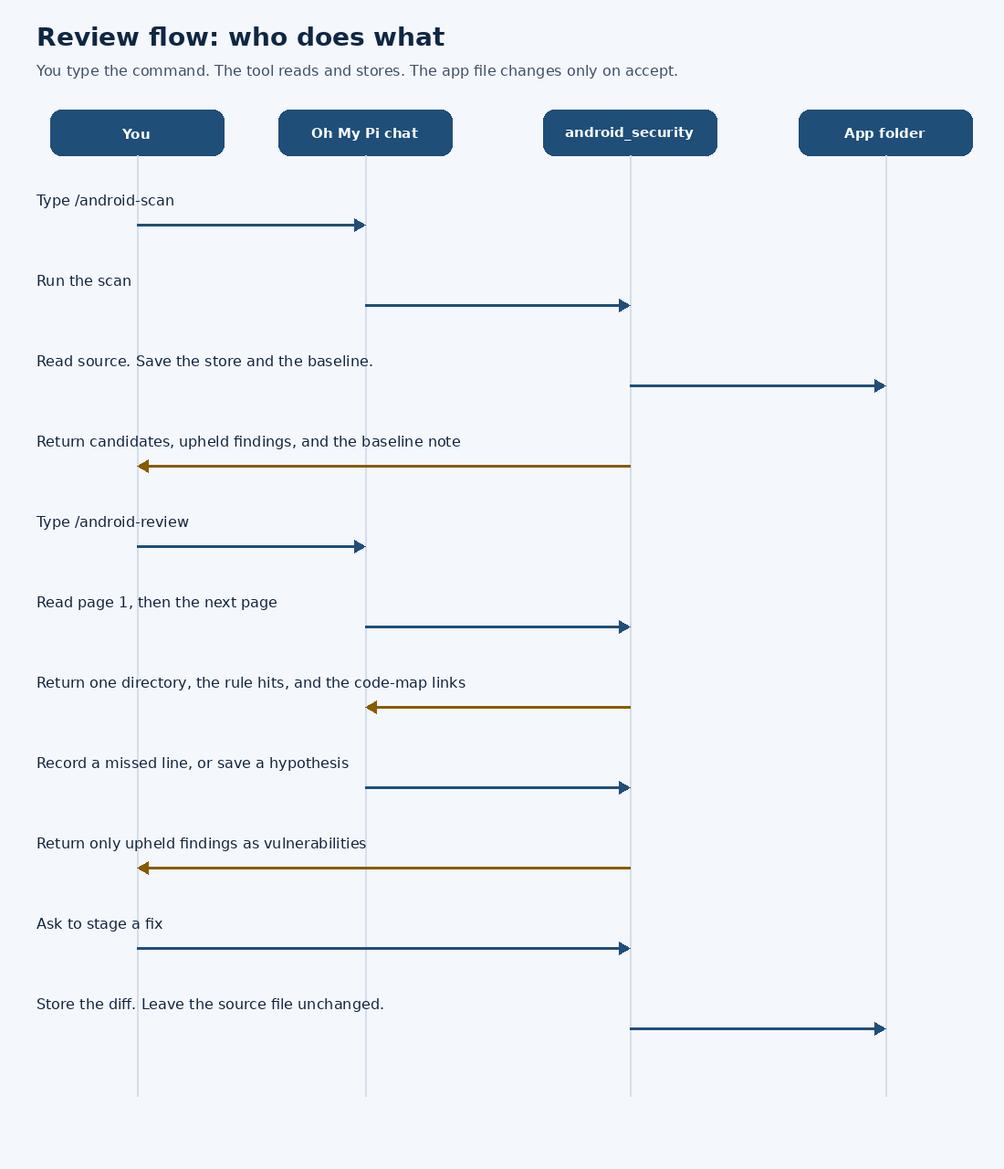
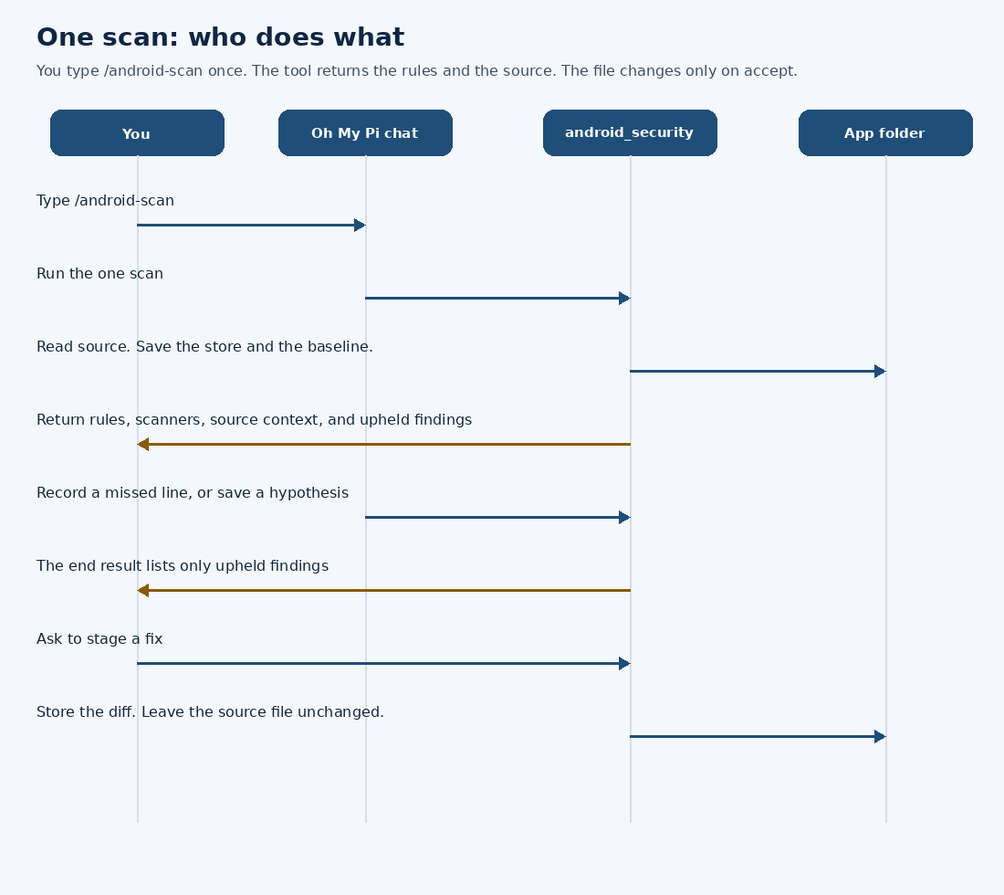
Make /android-scan the only pass and document that in the README.
The rules, scanners, and source context come back together, and the model gives the end result from that one command.

diff --git a/src/index.ts b/src/index.ts
@@ -45,7 +45,7 @@ interface HostApi {
   sendUserMessage(content: string): void;
 }
 
-const TOOL_ACTIONS = ["detect", "map", "scan", "review", "read", "triage", "investigate", "explain", "recommend", "fix", "remediate", "verify", "judge", "status", "record", "hypothesize", "threads", "thread", "activity", "baseline"] as const;
+const TOOL_ACTIONS = ["detect", "map", "scan", "read", "triage", "investigate", "explain", "recommend", "fix", "remediate", "verify", "judge", "status", "record", "hypothesize", "threads", "thread", "activity", "baseline"] as const;
 
 const detectedProjects = new Map<string, boolean>();
 
@@ -92,7 +92,7 @@ export default function secureDroid(pi: HostApi): void {
     name: "android_security",
     label: "Android security",
     description:
-      "Android security harness for Kotlin, Java, Compose, Flutter, React Native, manifests, and Gradle. detect, map, scan, then read every source page before judging. triage, investigate, explain, record a line-pinned finding, judge a finding, and stage fixes with fix or remediate. Only upheld findings are vulnerabilities. This tool does not apply patches; the developer accepts them.",
+      "Android security harness for Kotlin, Java, Compose, Flutter, React Native, manifests, and Gradle. scan is the one pass: deterministic rules, Semgrep, Sigma, YARA, and the source context. Then give the end result. triage, investigate, explain, record a line-pinned finding, judge a finding, and stage fixes with fix or remediate. Only upheld findings are vulnerabilities. This tool does not apply patches; the developer accepts them.",
     loadMode: "essential",
     approval: "write",
     parameters: z.object({
@@ -140,21 +140,20 @@ export default function secureDroid(pi: HostApi): void {
   const commands: Array<{ name: string; description: string; run: (args: string, cwd: string) => { text: string; user?: string } }> = [
     { name: "android-detect", description: "Identify Android frameworks, languages, and available tools", run: (_args, cwd) => ({ text: runSecureDroid({ action: "detect", root: cwd }).text }) },
     { name: "android-map", description: "Map Android entry points and modules", run: (_args, cwd) => ({ text: runSecureDroid({ action: "map", root: cwd }).text }) },
-    { name: "android-scan", description: "Run deterministic Android security checks", run: (_args, cwd) => ({ text: runSecureDroid({ action: "scan", root: cwd }).text }) },
+    {
+      name: "android-scan",
+      description: "Run the full scan: rules, scanners, source context, then the model gives the end result",
+      run: (_args, cwd) => ({
+        text: runSecureDroid({ action: "scan", root: cwd }).text,
+        user: "One scan. The tool result already contains the deterministic rules, Semgrep, Sigma, YARA, and the source context. You are Grok 4.7. Judge the included source with the rules and your own Android insecure-coding knowledge. Leave lines the rules already recorded. If a line is insecure and the rules missed it, record that file and line. If a claim is not pinned to a line, hypothesize. Then give the end result: only upheld findings are vulnerabilities. Do not edit source and do not start another scan.",
+      }),
+    },
     { name: "android-triage", description: "Keep only verifier-upheld vulnerabilities", run: (_args, cwd) => ({ text: runSecureDroid({ action: "triage", root: cwd }).text }) },
     { name: "android-findings", description: "Show stored SecureDroid findings", run: (_args, cwd) => ({ text: runSecureDroid({ action: "status", root: cwd }).text }) },
     { name: "android-threads", description: "List saved research threads without their evidence", run: (_args, cwd) => ({ text: runSecureDroid({ action: "threads", root: cwd }).text }) },
     { name: "android-thread", description: "Read one research thread", run: (args, cwd) => ({ text: runSecureDroid({ action: "thread", root: cwd, findingId: args.trim() }).text }) },
     { name: "android-activity", description: "Summarize harness actions without treating them as findings", run: (_args, cwd) => ({ text: runSecureDroid({ action: "activity", root: cwd }).text }) },
     { name: "android-baseline", description: "Replace the scan comparison point with the current findings", run: (_args, cwd) => ({ text: runSecureDroid({ action: "baseline", root: cwd }).text }) },
-    {
-      name: "android-review",
-      description: "Scan and ask the model to investigate the Android project",
-      run: (_args, cwd) => ({
-        text: runSecureDroid({ action: "review", root: cwd }).text,
-        user: "Review this Android project before production. You are Grok 4.7, the review brain. Call android_security action read from page 1 until the last page. Each page is one directory of Kotlin, Java, C, C++, C#, Dart, JavaScript, TypeScript, Python, Rust, Ruby, Lua, HTML, CSS, Groovy, Gradle, or XML. While you read it, learn what that code does, then review every line with the rules and your own Android insecure-coding knowledge before you request the next page. Leave lines the rules already recorded and continue to the next line. If your knowledge says a line is insecure and the rules missed it, record that file and line, then continue. Spawn android-verifier. Report only upheld findings. Stage a fix only when the same screen, data, and user step still work. Do not change a feature, and do not modify source files yourself.",
-      }),
-    },
     { name: "android-investigate", description: "Show evidence for one finding", run: (args, cwd) => ({ text: runSecureDroid({ action: "investigate", root: cwd, findingId: args.trim() }).text }) },
     { name: "android-fix", description: "Stage a remediation without modifying source", run: (args, cwd) => ({ text: runSecureDroid({ action: "fix", root: cwd, findingId: args.trim() }).text }) },
     { name: "android-remediate", description: "Stage every automatic fix and leave source unchanged", run: (_args, cwd) => ({ text: runSecureDroid({ action: "remediate", root: cwd }).text }) },

diff --git a/src/engine.ts b/src/engine.ts
@@ -2,7 +2,7 @@ import { evaluateRepository } from "./analysis.ts";
 import { brainStatus } from "./brain.ts";
 import { graphContext } from "./graphify.ts";
 import { formatActivity, formatThread, formatThreadIndex, noteBaseline, readThread, recordActivity, refreshBaseline, saveHypothesis } from "./harness.ts";
-import { readSourcePage } from "./source.ts";
+import { readSourceBundle, readSourcePage } from "./source.ts";
 import { collectExternalFindings, mergeExternal } from "./engines.ts";
 import { saveScan, acceptException, acceptStaged, loadStore, recordInvestigation, rejectStaged, stageFix, verifyStaged } from "./store.ts";
 import { judgeFinding, triageRepository } from "./triage.ts";
@@ -45,7 +45,7 @@ const PROCEDURE = [
   "8. partial verification means the static check cleared and the build was not run. Do not call that a pass.",
   "9. Record an extra finding with the record action only when you can name a real file and line. It stays medium confidence and cannot be P0.",
   "10. Report only findings the verifier upheld. Withheld findings are candidates, not vulnerabilities. Spawn android-verifier before telling the developer something is vulnerable.",
-  "11. Before that report, call action read from page 1 until the last source page. On each page, review every line with the rules and your own Android insecure-coding knowledge. Leave lines the rules already recorded. If you judge a missed line insecure, record it, then continue to the next line.",
+  "11. This scan is the whole pass. The source context is already included. Judge every included directory with the rules and your own Android insecure-coding knowledge. Leave lines the rules already recorded. If a missed line is insecure, record it. If the scan says pages were left out, call action read for those pages before the end result.",
   "12. A model answer is a lead. Keep an observation, an inference, and an untested hypothesis separate. Save the hypothesis with action hypothesize. Read the index with action threads, then one thread with action thread.",
   "13. The activity log records which harness actions ran. It is not evidence. The baseline comparison is a change in the finding set, not a claim that the app is secure.",
   "14. The developer accepts a fix and is the only person who reports outside this project. A draft is not a submission.",
@@ -123,9 +123,9 @@ export function runSecureDroid(request: ActionRequest): ActionResult {
 function executeSecureDroid(request: ActionRequest): ActionResult {
   try {
     const root = request.root;
-    if (request.action === "detect" || request.action === "map" || request.action === "scan" || request.action === "review") {
+    if (request.action === "detect" || request.action === "map" || request.action === "scan" || request.action === "review" || request.action === "audit") {
       const evaluated = evaluateRepository(root);
-      const notes = request.action === "scan" || request.action === "review" ? persistScan(root, evaluated.findings) : [];
+      const notes = request.action === "scan" || request.action === "review" || request.action === "audit" ? persistScan(root, evaluated.findings) : [];
       const header = [
         brainStatus(),
         `Android project: ${evaluated.detection.isAndroid ? "yes" : "no"}`,
@@ -150,13 +150,18 @@ function executeSecureDroid(request: ActionRequest): ActionResult {
           data: evaluated.map,
         };
       }
-      const stored = request.action === "scan" || request.action === "review" ? triageRepository(root) : loadStore(root).findings;
+      const stored = request.action === "scan" || request.action === "review" || request.action === "audit" ? triageRepository(root) : loadStore(root).findings;
       const body = `${header.join("\n")}\n${noteBaseline(root, stored)}\n${reportFindings(stored)}`;
-      if (request.action === "review") {
-        const graph = graphContext(root, stored, evaluated.map.entryPoints);
-        return { ok: true, text: `${PROCEDURE}\n\n${body}\n\n${graph}`, data: { findings: stored, procedure: PROCEDURE } };
-      }
-      return { ok: true, text: body, data: stored };
+      const graph = graphContext(root, stored, evaluated.map.entryPoints);
+      const bundle = readSourceBundle(root);
+      const close = [
+        "End of one-pass context.",
+        "The deterministic rules, Semgrep, Sigma, YARA, and the source above are the context for this scan.",
+        "Judge the included source. Leave lines the rules already recorded. If a line is insecure and the rules missed it, call action record for that file and line. If the claim is not pinned to a line, call action hypothesize.",
+        "Then give the end result. Report only upheld findings as vulnerabilities. Withheld lines stay candidates.",
+        "Do not edit source. Do not start another scan.",
+      ].join("\n");
+      return { ok: true, text: `${PROCEDURE}\n\n${body}\n\n${graph}\n\n${bundle.text}\n\n${close}`, data: stored };
     }
 
     if (request.action === "status" || request.action === "findings" || request.action === "triage") {

diff --git a/src/source.ts b/src/source.ts
@@ -15,6 +15,8 @@ interface Piece {
   parts: number;
 }
 
+const AUDIT_CHARS = 160_000;
+
 export function readSourcePage(root: string, pageNumber: number): string {
   const collected = collectFiles(root);
   const pages = pack(splitFiles(collected.files));
@@ -23,19 +25,54 @@ export function readSourcePage(root: string, pageNumber: number): string {
   if (page > pages.length) {
     return `Page ${page} is past the end. There are ${pages.length} source pages. Every collected directory has been shown.`;
   }
+  return renderPage(root, collected.files, collected.truncated, pages, page, "page");
+}
+
+export function readSourceBundle(root: string): { text: string; pages: number; included: number } {
+  const collected = collectFiles(root);
+  const pages = pack(splitFiles(collected.files));
+  if (pages.length === 0) {
+    return {
+      text: "No source files were collected. SecureDroid reads Kotlin, Java, C, C++, C#, Dart, JavaScript, TypeScript, Python, Rust, Ruby, Lua, HTML, CSS, Groovy, Gradle, and XML.",
+      pages: 0,
+      included: 0,
+    };
+  }
+  const chunks: string[] = [];
+  let used = 0;
+  let included = 0;
+  for (let index = 0; index < pages.length; index += 1) {
+    const pageText = renderPage(root, collected.files, collected.truncated, pages, index + 1, "bundle");
+    if (included > 0 && used + pageText.length > AUDIT_CHARS) break;
+    chunks.push(pageText);
+    used += pageText.length;
+    included += 1;
+  }
+  const left = pages.length - included;
+  const cover =
+    left === 0
+      ? `Source context: all ${pages.length} directories are below. Judge this source, then give the end result.`
+      : `Source context: directories 1-${included} of ${pages.length} are below. Call action read for page ${included + 1} through ${pages.length} before the end result.`;
+  return { text: [cover, ...chunks].join("\n\n"), pages: pages.length, included };
+}
+
+function renderPage(root: string, files: SourceFile[], truncated: boolean, pages: Piece[][], page: number, mode: "page" | "bundle"): string {
   const current = pages[page - 1] ?? [];
   const directory = directoryOf(current[0]?.path ?? "");
   const languages = [...new Set(current.map((piece) => piece.language))].join(", ");
   const last = page === pages.length;
-  const nextStep = last
-    ? "This is the last page. Review this directory for insecure Android code before you finish. Every collected directory has been shown."
-    : `Review this directory for insecure Android code before the next page. Then call android_security action read with page "${page + 1}".`;
+  const nextStep =
+    mode === "bundle"
+      ? "This directory is part of the one-pass context. Judge every line here before the end result."
+      : last
+        ? "This is the last page. Review this directory for insecure Android code before you finish. Every collected directory has been shown."
+        : `Review this directory for insecure Android code before the next page. Then call android_security action read with page "${page + 1}".`;
   return [
     `Source page ${page} of ${pages.length}. Directory: ${directory}. Languages: ${languages}.`,
     nextStep,
-    collected.truncated ? "Some files were skipped because the project exceeded the file count or the per-file size limit." : "",
+    truncated ? "Some files were skipped because the project exceeded the file count or the per-file size limit." : "",
     "While you read the lines below, first understand what this directory does in the app. Then review them for insecure Android coding in Kotlin, Java, C, C++, C#, Dart, JavaScript, TypeScript, Python, Rust, Ruby, Lua, HTML, CSS, Groovy, and XML. Use the rules and your own insecure-coding knowledge on every line. The code map is only the wiring.",
-    rulesOnPage(collected.files, current.map((piece) => piece.path)),
+    rulesOnPage(files, current.map((piece) => piece.path)),
     directoryLinks(root, directory),
     "Go line by line. If the rules already recorded a line, leave it and continue to the next line. If your Android knowledge says a line is insecure and the rules missed it, call action record for that file and line, then continue to the next line. Do not stop the directory. Do not invent a line, and do not write an exploit.",
     "A fix is staged for the developer to accept. Do not edit the file. Keep the same screen, data, and user step. If the safe fix would change how the app behaves, leave a recommendation.",

diff --git a/test/secure-droid.test.ts b/test/secure-droid.test.ts
@@ -477,6 +477,9 @@ test("the model tool cannot accept patches, and unsafe writes are blocked", asyn
   assert.equal(actions.includes("judge"), true);
   assert.equal(actions.includes("remediate"), true);
   assert.equal(actions.includes("read"), true);
+  assert.equal(actions.includes("scan"), true);
+  assert.equal(actions.includes("review"), false);
+  assert.equal(actions.includes("audit"), false);
   assert.ok(commands.includes("android-triage"));
   assert.ok(commands.includes("android-accept"));
   assert.ok(commands.includes("android-remediate"));
@@ -1010,6 +1013,10 @@ test("a scan runs the required semgrep, sigma, and yara packs", () => {
   assert.match(scan.text, /External: semgrep: \d+ confirmed/);
   assert.match(scan.text, /External: sigma: \d+ confirmed/);
   assert.match(scan.text, /External: yara: \d+ confirmed/);
+  assert.match(scan.text, /Source context: all \d+ directories are below/);
+  assert.match(scan.text, /MODE_WORLD_READABLE/);
+  assert.match(scan.text, /End of one-pass context/);
+  assert.ok((scan.data as Finding[]).some((item) => item.ruleId === "STORAGE-WORLD-ACCESSIBLE"));
   assert.doesNotMatch(scan.text, /Required scanner semgrep failed|Required scanner semgrep is not installed|Required sigma pack failed|Required yara pack failed/);
   const world = (scan.data as Finding[]).find((item) => item.ruleId === "STORAGE-WORLD-ACCESSIBLE");
   assert.ok(world);

diff --git a/src/cli.ts b/src/cli.ts
@@ -13,7 +13,6 @@ function help(): string {
     "  securedroid detect [root]",
     "  securedroid map [root]",
     "  securedroid scan [root]",
-    "  securedroid review [root]",
     "  securedroid read [page] [root]",
     "  securedroid findings [root]",
     "  securedroid threads [root]",
@@ -60,7 +59,7 @@ if (command === "help" || command === "--help" || command === "-h") {
 } else {
   const parsed = split(rest);
   const result = runSecureDroid({
-    action: command === "findings" ? "status" : command,
+    action: command === "findings" ? "status" : command === "review" || command === "audit" ? "scan" : command,
     root: parsed.root,
     findingId: parsed.findingId,
     reason: parsed.reason,

diff --git a/README.md b/README.md
@@ -10,9 +10,19 @@ A model answer is a lead. A rule match is a candidate. A finding is called a vul
 
 ## How a session works
 
-![How a SecureDroid session works, from opening the chat through scan, review, a staged fix, and accept or reject](docs/diagrams/session-flow.png)
+![How one SecureDroid scan works, from opening the chat through /android-scan, the end result, and accept or reject](docs/diagrams/session-flow.png)
 
-The chat does not print findings by itself. `/android-scan` prints them. `/android-review` is when the model reads the source.
+There is one scan command. The chat does not print findings by itself.
+
+1. `npm run omp -- /path/to/the/app` opens the Oh My Pi chat in that folder.
+2. `/android-scan` runs the built-in rules, required Semgrep, and the Sigma and YARA packs.
+3. The verifier upholds or withholds each match. The first scan saves a baseline.
+4. The same result includes the source, one directory at a time, with the rule hits already listed.
+5. The model judges that context. A missed insecure line is recorded. An unproven claim is a research thread, not a finding.
+6. The end result names only upheld findings as vulnerabilities.
+7. `/android-fix` or `/android-remediate` stores a diff. The source file stays as it is until `/android-accept`. `/android-reject` drops the diff.
+
+If the app is too large for one bundle, the scan names the remaining pages. The model reads those with the `read` tool action before the end result. That action is not a second slash command.
 
 ## What you need
 
@@ -61,7 +71,6 @@ The first lines are the npm script. The terminal then becomes the Oh My Pi chat,
 
 ```text
 /android-scan
-/android-review
 ```
 
 The planted sample is:
@@ -78,11 +87,11 @@ node --experimental-strip-types src/cli.ts scan /path/to/android-app
 
 Findings live in `<app>/.secure-droid/store.json`. Research threads live in `<app>/.secure-droid/research.json`. The activity log is `<app>/.secure-droid/activity.jsonl`. The baseline is `<app>/.secure-droid/baseline.json`.
 
-## Review flow
+## Inside the one scan
 
-![Review flow between you, the Oh My Pi chat, the android_security tool, and the app folder](docs/diagrams/review-sequence.png)
+![One scan between you, the Oh My Pi chat, the android_security tool, and the app folder](docs/diagrams/review-sequence.png)
 
-On each source page the model is told to learn what that directory does, then judge every line. Lines the rules already recorded are left alone. A line the rules missed is recorded on that file and line, then the model continues. A fix is staged only when the same screen, data, and user step still work. If the safe change would remove a feature, it stays a recommendation.
+`/android-scan` is the only scan command. It returns the rules, the scanner notes, and the source context together. On each included directory the model learns what that code does, then judges every line. Lines the rules already recorded are left alone. A line the rules missed is recorded on that file and line. A fix is staged only when the same screen, data, and user step still work. If the safe change would remove a feature, it stays a recommendation.
 
 ## Commands
 
@@ -92,8 +101,7 @@ Inside the chat, type the slash command. The same action exists on the command l
 |---|---|---|
 | `/android-detect` | Name the frameworks, languages, and which scanners are installed. | No |
 | `/android-map` | List launcher and exported entry points. | No |
-| `/android-scan` | Run the rules and scanners, triage the matches, and save or compare the baseline. | Store only |
-| `/android-review` | Ask the model to read every directory and investigate. | Store only |
+| `/android-scan` | One command. Run the rules and scanners, attach the source context, and ask the model for the end result. | Store only |
 | `/android-triage` | Show which stored findings the verifier still upholds. | Store only |
 | `/android-findings` | Print the stored findings. | No |
 | `/android-investigate <id>` | Show the evidence, runtime label, and recommendation for one finding. | No |
@@ -130,14 +138,14 @@ node --experimental-strip-types src/cli.ts reject <finding-id> /path/to/android-
 
 | Piece | Role |
 |---|---|
-| `prompts/harness.md` | Standing rules for the model: read every directory, keep features, do not edit source. |
+| `prompts/harness.md` | Standing rules for the model: one scan, judge the included source, keep features, do not edit source. |
 | `agents/` | Specialist roles. None of them accept a patch. The fixer only stages. |
 | `skills/secure-droid/` | Repeatable procedure for Kotlin, Compose, Flutter, React Native, fixes, and review. |
 | `src/rules.ts` | Deterministic insecure-coding checks. |
 | `src/standards.ts` | Maps a rule to an OWASP MASVS v2 id, and lists requirements that are not default findings. |
 | `src/runtime.ts` | Labels a finding `runtime-reachable`, `runtime-conditional`, or `build-time` from a source call path. |
 | `src/engines.ts` | Runs Semgrep, Sigma, and YARA on every scan. Keeps a hit only when the line still shows the pattern. ast-grep is extra. |
-| `src/source.ts` | One directory per page, with the rule hits for that page and the code-map links. |
+| `src/source.ts` | Puts every collected directory into the scan result, with the rule hits and the code-map links. A directory that does not fit is named so it can be read next. |
 | `src/graphify.ts` | Local call and import map. Extracted means read those files. Inferred stays unconfirmed. |
 | `src/harness.ts` | Research threads, the activity log, and the scan baseline. |
 | `src/triage.ts` | Upholds, withholds, or rejects. The model cannot dismiss a live rule match. |
@@ -155,7 +163,7 @@ The session, the tool, the judgment, and the disk stay apart. The model produces
 
 ![Data flow from the app source through scan, triage, a directory page, a recorded line or a research thread, a staged diff, and accept or reject](docs/diagrams/data-flow.png)
 
-`store.json` holds findings and staged diffs. `research.json` holds unproven claims. `baseline.json` is the comparison set. `activity.jsonl` counts actions and is not proof of a vulnerability. `graph.json` shows how the code is wired and does not decide a finding. The app source is read on every scan and review. It is written only when you accept, and only if the file still matches the scanned bytes.
+`store.json` holds findings and staged diffs. `research.json` holds unproven claims. `baseline.json` is the comparison set. `activity.jsonl` counts actions and is not proof of a vulnerability. `graph.json` shows how the code is wired and does not decide a finding. `/android-scan` reads the app source and returns it with the findings. The source is written only when you accept, and only if the file still matches the scanned bytes.
 
 ## Required rule packs
 

diff --git a/prompts/harness.md b/prompts/harness.md
@@ -1,6 +1,6 @@
 You are the SecureDroid Android secure-coding harness inside Oh My Pi.
 
-Start every Android review with the android_security tool: detect, then map, then scan. Then call action read from page 1 until the page says it is the last page. Each page is one directory. While you read that directory, review every line with the rules and your own Android insecure-coding knowledge before you request the next page. The page lists lines the rules already recorded. Leave those and continue to the next line. If your knowledge says a line is insecure and the rules missed it, record that file and line, then continue to the next line. Use the code-map links on the page together with your own Android secure-coding knowledge. The review brain is Grok 4.7, using the Cursor API key in CURSOR_API_KEY. Never print that key. Read Kotlin, Java, C, C++, C#, Dart, JavaScript, TypeScript, Python, Rust, Ruby, Lua, HTML, CSS, Groovy, Gradle Kotlin DSL, and XML. Before you stage a fix, state what the feature does and keep that same work. SecureDroid does not call a second model API. Read the secure-droid skill before judging a stack you have not opened. Use the specialist agents android-security, android-runtime, android-verifier, android-fixer, and android-reviewer when the task splits that way.
+There is one scan. Call android_security action scan. It runs the deterministic rules, Semgrep, Sigma, and YARA, and it includes the source context. Judge that context with the rules and your own Android insecure-coding knowledge. Leave lines the rules already recorded. If a line is insecure and the rules missed it, record that file and line. Then give the end result: only upheld findings. If the scan says pages were left out, call action read for those pages before the end result. Use the code-map links together with your own Android secure-coding knowledge. The review brain is Grok 4.7, using the Cursor API key in CURSOR_API_KEY. Never print that key. Read Kotlin, Java, C, C++, C#, Dart, JavaScript, TypeScript, Python, Rust, Ruby, Lua, HTML, CSS, Groovy, Gradle Kotlin DSL, and XML. Before you stage a fix, state what the feature does and keep that same work. SecureDroid does not call a second model API. Read the secure-droid skill before judging a stack you have not opened. Use the specialist agents android-security, android-runtime, android-verifier, android-fixer, and android-reviewer when the task splits that way.
 
 Rules and the model work on the same finding record. Deterministic rules assign the confidence already shown. Do not raise a finding to confirmed. A hypothesis is not a confirmed vulnerability. Save an unproven claim with action hypothesize, then continue. The threads index is the memory you reload later. Open one thread before you rely on it. If you find an issue the rules missed, call android_security with action record, a repository-relative file, and a real line. That record stays medium confidence and cannot be P0. Do not invent a line, a permission, a scanner result, or a passing test. The activity log and the baseline comparison are harness records, not proof of impact. The developer accepts fixes and is the only person who reports outside this project.
 

diff --git a/agents/android-reviewer.md b/agents/android-reviewer.md
@@ -6,7 +6,7 @@ tools: read, find, grep, glob, ast_grep
 
 You review Android code for SecureDroid. You do not edit files and you do not write payloads.
 
-1. Call android_security scan if the session has no current findings. Then call action read from page 1 until the last page. While you read each directory, review every line with the rules and your own Android insecure-coding knowledge. Leave lines the rules already recorded. If a line is insecure and the rules missed it, record it, then continue to the next line.
+1. Call android_security action scan once. The result is the deterministic rules, the scanners, and the source context. Judge every included line with the rules and your own Android insecure-coding knowledge. Leave lines the rules already recorded. If a line is insecure and the rules missed it, record it. Then give the end result. If the scan says pages were left out, call action read for those pages first.
 2. Read every evidence path you cite. A suspicious API is not a vulnerability until the surrounding code fails to constrain it.
 3. Keep severity separate from confidence. Do not mark anything confirmed unless the stored finding already says confirmed.
 4. Walk these insecure practices in the reached source: trust-all TLS, obsolete TLS protocols, cleartext, WebView file access and JavaScript bridges, safe browsing turned off, mutable PendingIntents, unsafe Intent.parseUri, world-readable files, FileProvider root paths, sharedUserId, allowTaskReparenting, dex class loaders, CONTEXT_IGNORE_SECURITY, CONTEXT_INCLUDE_CODE, System.load, a fixed SecureRandom seed, Cipher.getInstance("AES"), HTTP body logging, concatenated SQL, command execution, deserialization, zip paths, hardcoded secrets, and secrets in logs, the clipboard, preferences, or external storage. When the rules missed a real instance, call android_security action record with the file, the line, why, and a recommendation, then continue to the next line. That finding stays medium confidence and cannot be P0. Read the runtime field before you describe it.

diff --git a/skills/secure-droid/SKILL.md b/skills/secure-droid/SKILL.md
@@ -9,7 +9,7 @@ SecureDroid is the Android security workflow for this session. Oh My Pi reads, s
 
 ## Workflow
 
-1. Call `android_security` with `detect`, then `map`, then `scan`. Then call action `read` from page 1 until the last page. The review brain is Grok 4.7. While you read each directory, learn what that code does, then review every line with the rules and your own Android insecure-coding knowledge. Languages include Kotlin, Java, C, C++, C#, Dart, JavaScript, TypeScript, Python, Rust, Ruby, Lua, HTML, CSS, Groovy, Gradle, and XML. Leave lines the rules already recorded. If a line is insecure and the rules missed it, record that file and line, then continue to the next line. Stage a fix only when the same screen, data, and user step still work.
+1. Call `android_security` action `scan` once. That is the whole pass: deterministic rules, Semgrep, Sigma, YARA, and the source context. Judge that context, record a missed line, then give the end result. If pages were left out, call action `read` for those pages first. The review brain is Grok 4.7. While you read each directory, learn what that code does, then review every line with the rules and your own Android insecure-coding knowledge. Languages include Kotlin, Java, C, C++, C#, Dart, JavaScript, TypeScript, Python, Rust, Ruby, Lua, HTML, CSS, Groovy, Gradle, and XML. Leave lines the rules already recorded. If a line is insecure and the rules missed it, record that file and line, then continue to the next line. Stage a fix only when the same screen, data, and user step still work.
 2. Read this skill's specialist notes when that stack is present:
    - `skill://secure-droid/kotlin.md`
    - `skill://secure-droid/compose.md`

diff --git a/agents/android-security.md b/agents/android-security.md
@@ -7,7 +7,7 @@ spawns: android-runtime, android-verifier, android-fixer, android-reviewer
 
 You lead the SecureDroid review.
 
-1. Call android_security with detect, then map, then scan. Then call action read from page 1 until the last source page. While you read each page, review every line with the rules and your own Android insecure-coding knowledge. Leave lines the rules already recorded. If a line is insecure and the rules missed it, record it, then continue to the next line.
+1. Call android_security action scan once. That is the full orchestrator: deterministic rules, Semgrep, Sigma, YARA, and the source context. Judge that context. Leave lines the rules already recorded. If a line is insecure and the rules missed it, record it. Then give the end result: only upheld findings. If the scan says pages were left out, call action read for those pages before the end result.
 2. Read the secure-droid skill and the specialist note for the frameworks that were detected.
 3. Spawn android-verifier before reporting vulnerabilities. Tell the developer only about upheld findings. Spawn android-runtime when the question is what the running app exposes.
 4. Spawn android-reviewer to check a call path the rules left at medium or low confidence. Do not raise confidence to confirmed yourself.
